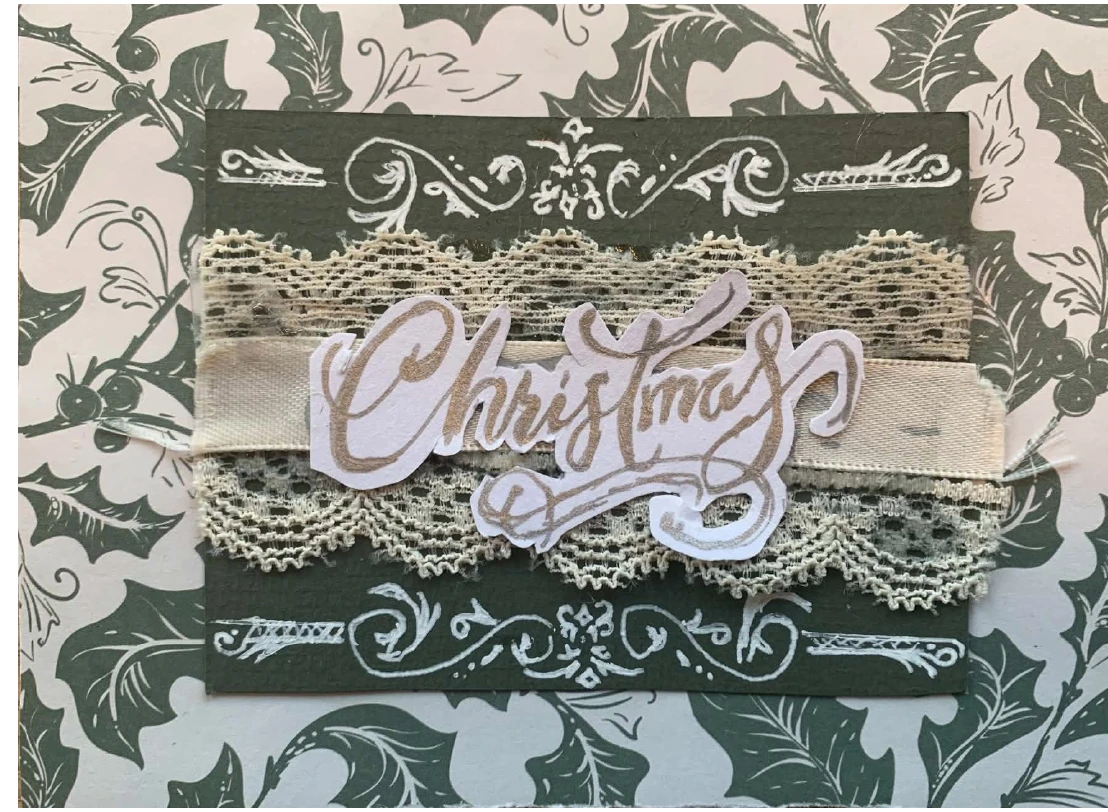
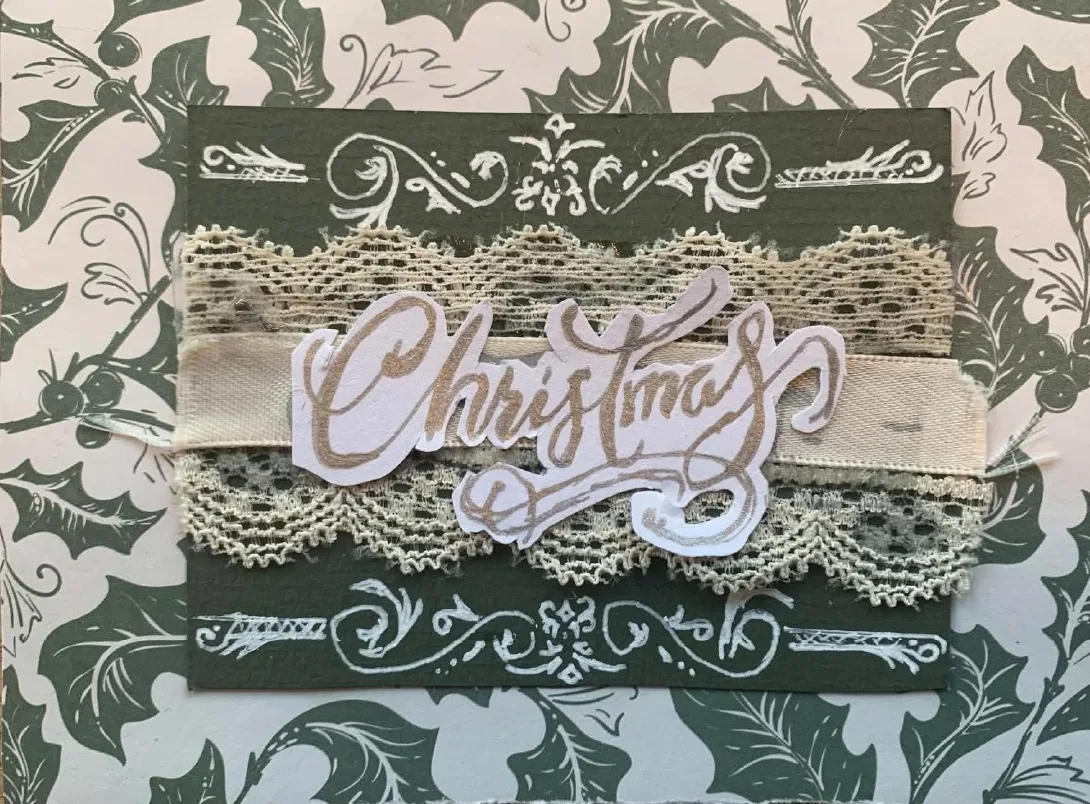
Crop white borders off the creative-corner artwork
Flyt, all three Christmas cards and the awesome card carried a few pixels of
white scan margin. Trim at low tolerance so Flyt keeps its own light-grey
artwork background, and sync the declared aspect ratios. Re-encoding also
drops 186KB, since these still shipped at the quality of an earlier re-crop.

diff --git a/src/content/creative.ts b/src/content/creative.ts
@@ -17,7 +17,7 @@ const creative = {
       alt: 'Flyt — a white game controller with green thumbsticks and its technical drawings',
       title: 'Flyt',
       medium: '3D modeling · product design',
-      aspect: '1080 / 760',
+      aspect: '1078 / 752',
       width: 540,
     },
     {
@@ -41,7 +41,7 @@ const creative = {
       alt: 'Handmade Christmas card with lace on green holly paper',
       title: 'Christmas card',
       medium: 'Handmade',
-      aspect: '1108 / 812',
+      aspect: '1090 / 804',
       width: 554,
     },
     {
@@ -49,7 +49,7 @@ const creative = {
       alt: 'Handmade Merry Christmas card with lace border on red paper',
       title: 'Merry Christmas',
       medium: 'Handmade',
-      aspect: '808 / 660',
+      aspect: '801 / 652',
       width: 404,
     },
     {
@@ -57,7 +57,7 @@ const creative = {
       alt: 'Handmade Merry Christmas card with ribbon and leaves',
       title: 'Merry Christmas II',
       medium: 'Handmade',
-      aspect: '960 / 812',
+      aspect: '960 / 806',
       width: 480,
     },
     {
@@ -65,7 +65,7 @@ const creative = {
       alt: 'Hand-drawn card reading “not only for what you do, but for being awesome”',
       title: 'For being awesome',
       medium: 'Handmade · watercolour',
-      aspect: '950 / 700',
+      aspect: '947 / 692',
       width: 475,
     },
   ],
